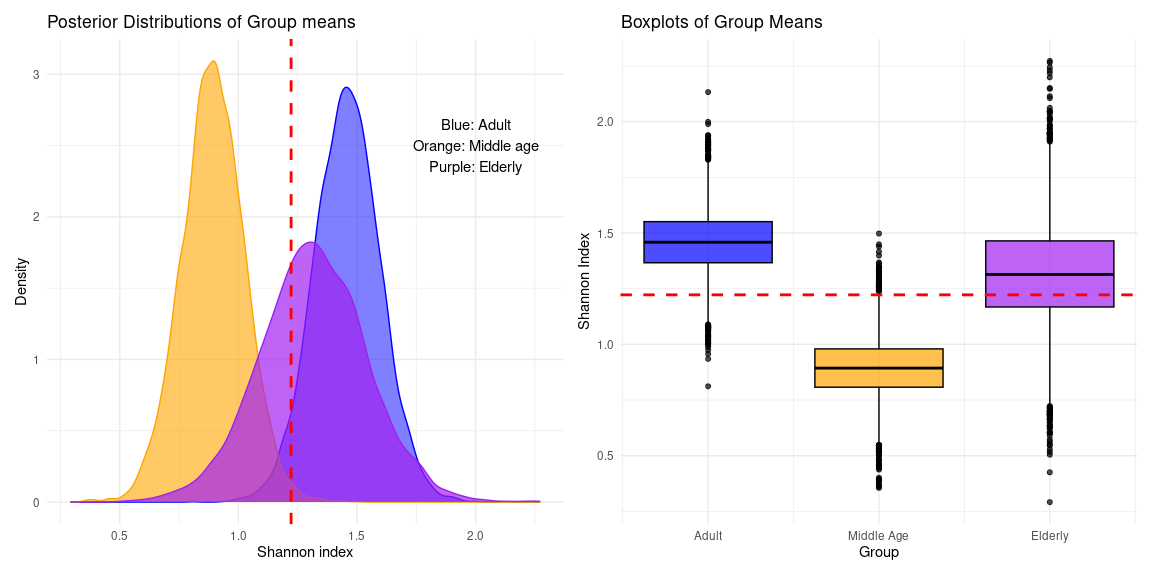
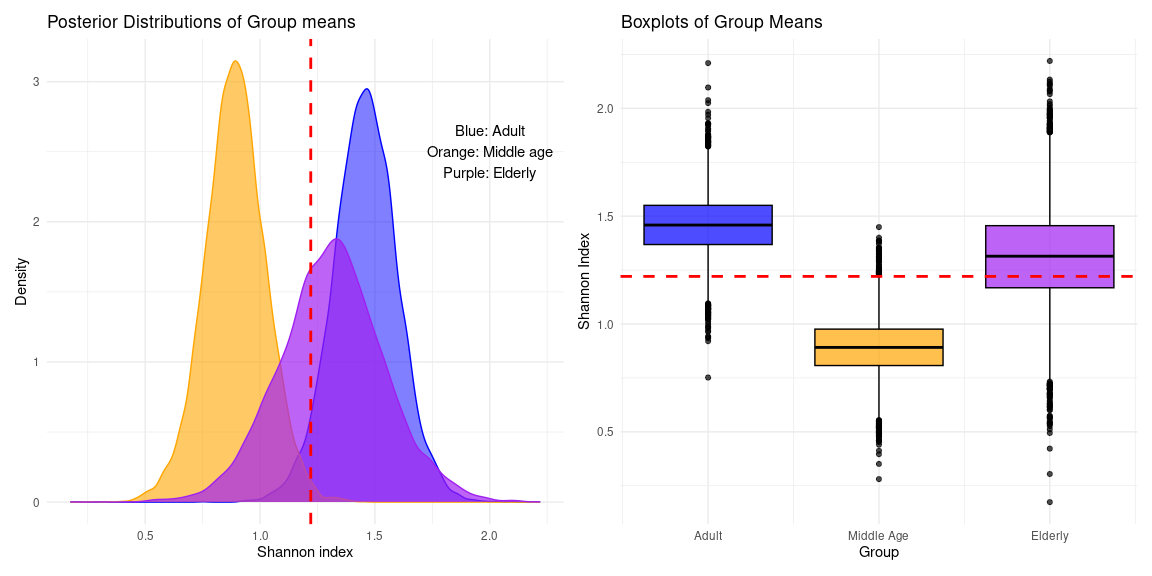
Reverse prob calculation and refactor effect size

diff --git a/multi_group_alt-bayes.md b/multi_group_alt-bayes.md
@@ -1,6 +1,6 @@
 # Probabilistic multi-group comparison of alpha diversity
 Rasmus Hindström
-2025-07-28
+2025-07-29
 
 - [0. Summary](#0-summary)
 - [1. Data preparation](#1-data-preparation)
@@ -107,16 +107,16 @@ runTime_brm <- end - start
 
     Regression Coefficients:
                         Estimate Est.Error l-95% CI u-95% CI Rhat Bulk_ESS Tail_ESS
-    Intercept               1.46      0.14     1.19     1.73 1.00     8577     5755
-    sigma_Intercept        -0.44      0.17    -0.76    -0.10 1.00     7054     5534
-    AgeElderly             -0.14      0.26    -0.67     0.38 1.00     7780     6190
-    AgeMiddle_age          -0.57      0.19    -0.95    -0.19 1.00     7929     6383
-    sigma_AgeElderly        0.33      0.25    -0.15     0.84 1.00     7629     6257
-    sigma_AgeMiddle_age    -0.26      0.26    -0.76     0.24 1.00     8198     5482
+    Intercept               1.46      0.14     1.17     1.74 1.00     8758     5774
+    sigma_Intercept        -0.44      0.17    -0.76    -0.10 1.00     8771     5767
+    AgeElderly             -0.15      0.26    -0.67     0.38 1.00     8875     5679
+    AgeMiddle_age          -0.57      0.20    -0.94    -0.18 1.00     9075     6520
+    sigma_AgeElderly        0.33      0.25    -0.15     0.83 1.00     9552     6781
+    sigma_AgeMiddle_age    -0.27      0.25    -0.75     0.23 1.00     9634     6736
 
     Further Distributional Parameters:
        Estimate Est.Error l-95% CI u-95% CI Rhat Bulk_ESS Tail_ESS
-    nu    24.24     14.34     5.87    59.77 1.00     8680     5134
+    nu    24.56     14.67     5.97    60.21 1.00    10307     6028
 
     Draws were sampled using sampling(NUTS). For each parameter, Bulk_ESS
     and Tail_ESS are effective sample size measures, and Rhat is the potential
@@ -201,7 +201,7 @@ frequentist p-value.
 <summary>Probabilities and Standardized Effect Size</summary>
 
 ``` r
-calc_eff_posterior <- function(mu_1, mu_2, sd_1, sd_2) {
+calc_cohenD_post <- function(mu_1, mu_2, sd_1, sd_2) {
     # Calculates effect size from posterior draws
     diff <- mu_1 - mu_2
     pooled_sd <- sqrt((sd_1^2 + sd_2^2) / 2)
@@ -215,36 +215,84 @@ calc_eff_posterior <- function(mu_1, mu_2, sd_1, sd_2) {
     return(res)
 }
 
+calc_logfc_post <- function(mu_1, mu_2) {
+    # Calculates log fold change from posterior draws
+    logfc <- log2(mu_1 / mu_2)
+    mean_logfc <- mean(logfc)
+    ci_logfc <- quantile(logfc, probs = c(0.05, 0.95))
+    res <- list(
+        "logfc" = mean_logfc,
+        "ci" = ci_logfc
+    )
+    return(res)
+}
+
+# Calculate effect sizes
+logfc_adult_elderly <- calc_logfc_post(plot_data$adult, plot_data$elderly)
+logfc_adult_middleage <- calc_logfc_post(plot_data$adult, plot_data$middle_age)
+logfc_elderly_middleage <- calc_logfc_post(plot_data$elderly, plot_data$middle_age)
+
+cohenD_adult_elderly <- calc_cohenD_post(
+    plot_data$adult, 
+    plot_data$elderly, 
+    plot_data$adult_sd, 
+    plot_data$elderly_sd
+)
+cohenD_adult_middleage <- calc_cohenD_post(
+    plot_data$adult, 
+    plot_data$middle_age, 
+    plot_data$adult_sd, 
+    plot_data$middle_age_sd
+)
+cohenD_elderly_middleage <- calc_cohenD_post(
+    plot_data$elderly, 
+    plot_data$middle_age, 
+    plot_data$elderly_sd, 
+    plot_data$middle_age_sd
+)
+
+
+
 probabilities <- data.frame(
     Comparison = c(
         "Adult vs Elderly",
         "Adult vs Middle age",
         "Elderly vs Middle age"
     ),
-    Prob_greater = c(
-        prob_adult_elderly <- mean(plot_data$adult > plot_data$elderly),
-        prob_adult_middleage <- mean(plot_data$adult > plot_data$middle_age),
-        prob_elderly_middleage <- mean(plot_data$elderly > plot_data$middle_age)
+    Prob_lesser = c(
+        prob_adult_elderly <- mean(plot_data$adult < plot_data$elderly),
+        prob_adult_middleage <- mean(plot_data$adult < plot_data$middle_age),
+        prob_elderly_middleage <- mean(plot_data$elderly < plot_data$middle_age)
     ),
-    High_P = c(
-        ifelse(prob_adult_elderly > 0.95, "*", ""),
-        ifelse(prob_adult_middleage > 0.95, "*", ""),
-        ifelse(prob_elderly_middleage > 0.95, "*", "")
+    LogFC = c(
+        logfc_adult_elderly$logfc,
+        logfc_adult_middleage$logfc,
+        logfc_elderly_middleage$logfc
+    ),
+    LogFC_ci_lower = c(
+        logfc_adult_elderly$ci[1],
+        logfc_adult_middleage$ci[1],
+        logfc_elderly_middleage$ci[1]
+    ),
+    LogFC_ci_upper = c(
+        logfc_adult_elderly$ci[2],
+        logfc_adult_middleage$ci[2],
+        logfc_elderly_middleage$ci[2]
     ),
     cohens_d = c(
-        calc_eff_posterior(plot_data$adult, plot_data$elderly, plot_data$adult_sd, plot_data$elderly_sd)$d,
-        calc_eff_posterior(plot_data$adult, plot_data$middle_age, plot_data$adult_sd, plot_data$middle_age_sd)$d,
-        calc_eff_posterior(plot_data$elderly, plot_data$middle_age, plot_data$elderly_sd, plot_data$middle_age_sd)$d
+        cohenD_adult_elderly$d,
+        cohenD_adult_middleage$d,
+        cohenD_elderly_middleage$d
     ),
-    ci_lower = c(
-        calc_eff_posterior(plot_data$adult, plot_data$elderly, plot_data$adult_sd, plot_data$elderly_sd)$ci[1],
-        calc_eff_posterior(plot_data$adult, plot_data$middle_age, plot_data$adult_sd, plot_data$middle_age_sd)$ci[1],
-        calc_eff_posterior(plot_data$elderly, plot_data$middle_age, plot_data$elderly_sd, plot_data$middle_age_sd)$ci[1]
+    d_ci_lower = c(
+        cohenD_adult_elderly$ci[1],
+        cohenD_adult_middleage$ci[1],
+        cohenD_elderly_middleage$ci[1]
     ),
-    ci_upper = c(
-        calc_eff_posterior(plot_data$adult, plot_data$elderly, plot_data$adult_sd, plot_data$elderly_sd)$ci[2],
-        calc_eff_posterior(plot_data$adult, plot_data$middle_age, plot_data$adult_sd, plot_data$middle_age_sd)$ci[2],
-        calc_eff_posterior(plot_data$elderly, plot_data$middle_age, plot_data$elderly_sd, plot_data$middle_age_sd)$ci[2]
+    d_ci_upper = c(
+        cohenD_adult_elderly$ci[2],
+        cohenD_adult_middleage$ci[2],
+        cohenD_elderly_middleage$ci[2]
     )
 )
 
@@ -253,11 +301,11 @@ knitr::kable(probabilities, caption = "Probabilities of Higher Shannon Index", f
 
 </details>
 
-| Comparison            | Prob_greater | High_P |  cohens_d |   ci_lower | ci_upper |
-|:----------------------|-------------:|:-------|----------:|-----------:|---------:|
-| Adult vs Elderly      |     0.710750 |        | 0.4852815 | -0.9502119 | 2.133642 |
-| Adult vs Middle age   |     0.997500 | \*     | 0.9909632 |  0.4073328 | 1.788763 |
-| Elderly vs Middle age |     0.944625 |        | 0.8840643 | -0.0258875 | 2.054133 |
+| Comparison | Prob_lesser | LogFC | LogFC_ci_lower | LogFC_ci_upper | cohens_d | d_ci_lower | d_ci_upper |
+|:---|---:|---:|---:|---:|---:|---:|---:|
+| Adult vs Elderly | 0.284625 | 0.1684920 | -0.2857972 | 0.6771266 | 0.4883523 | -0.9735084 | 2.085115 |
+| Adult vs Middle age | 0.003125 | 0.7184586 | 0.3073519 | 1.1616099 | 0.9874379 | 0.4053552 | 1.781978 |
+| Elderly vs Middle age | 0.057375 | 0.5499666 | -0.0246605 | 1.0959841 | 0.8741500 | -0.0350636 | 1.999226 |
 
 Probabilities of Higher Shannon Index
 
@@ -266,7 +314,24 @@ interpretation is more intuitive. The probabilities can also be computed
 over the highest density interval’s (HDI) or 95% CI’s. Here we have used
 the full posterior distributions.
 
-Effect size’s are standardized and 95% CI’s are reported.
+Effect size’s are reported as Log Fold Change (LogFC) and standardized
+effect size (Cohen’s d) with 95% CI’s.
+
+Combining the probabilities and effect sizes, we can conclude that the
+`Middle age` group has a lower Shannon index compared to the `Adult`
+group. With high probability (0.99) of observing a higher Shannon index
+in the `Adult` group and a higher then 95% chance of observing an
+positive effect size.
+
+The `Elderly` group has a similar pattern, with a high probabilty of
+observing a higher Shannon index than the `Middle age` group, but effect
+size 95% CI’s overlap zero. This indicates that the difference is not as
+pronounced as with the `Adult` group.
+
+Comparing the `Adult` and `Elderly` groups, the probability of observing
+a higher Shannon index in the `Adult` group is greater then 50%, but the
+effect size is small, with a 95% CI that overlaps zero. This indicates
+that the difference is not likely to be meaningful.
 
 # 3. Classical approachs to multi-group testing
 
@@ -277,11 +342,11 @@ are normality and equal variance.
 
 ``` r
 start <- proc.time() 
-res_annova <- aov(shannon ~ Age, data = df)
+res_anova <- aov(shannon ~ Age, data = df)
 end <- proc.time()
-runTime_annova <- end - start
+runTime_anova <- end - start
 
-summary(res_annova)
+summary(res_anova)
 ```
 
                 Df Sum Sq Mean Sq F value Pr(>F)  
@@ -407,14 +472,14 @@ between groups `Adult` and `Middle age`.
 runTimes <- data.frame(
     method = c(
         "Bayesian estimation",
-        "ANNOVA + t.test",
-        "ANNOVA + HSD",
+        "ANOVA + t.test",
+        "ANOVA + HSD",
         "Kruskal-Wallis + Dunn's"
         ),
     time_seconds = c(
         runTime_brm["elapsed"],
-        runTime_annova["elapsed"] + runTime_pwt["elapsed"],
-        runTime_annova["elapsed"] + runTime_hsd["elapsed"],
+        runTime_anova["elapsed"] + runTime_pwt["elapsed"],
+        runTime_anova["elapsed"] + runTime_hsd["elapsed"],
         runTime_kw["elapsed"] + runTime_dunn["elapsed"]
         )
 )
@@ -426,19 +491,20 @@ knitr::kable(runTimes, caption = "Run times for different methods", format = "pi
 
 | method                  | time_seconds |
 |:------------------------|-------------:|
-| Bayesian estimation     |       87.986 |
-| ANNOVA + t.test         |        0.004 |
-| ANNOVA + HSD            |        0.009 |
-| Kruskal-Wallis + Dunn’s |        0.009 |
+| Bayesian estimation     |       82.318 |
+| ANOVA + t.test          |        0.005 |
+| ANOVA + HSD             |        0.009 |
+| Kruskal-Wallis + Dunn’s |        0.006 |
 
 Run times for different methods
 
-Both the probabilistic and classical approachs to multigroup testing
-give the same result. The `Middle age` group is signaled out.
-Contrasting the methods, it is clear that the probabilistic approach
-gives richer inference, with the added benefit of intuitive
-interpretation.
+Although the methods are in aggreement that the significant outlier is
+the `Middle age` group. The classical methods are only able to provide a
+binary (yes/no) inference, in contrast to the much richer and intuitive
+information provided by the probabilistic method.
 
 The main drawback of the probabilistic approach is the computational
 cost. Fitting a Bayesian model, with brms, requires compiling the model
-and running the MCMC sampler.
+code and running the MCMC sampler. However this margin may shrink when
+datasets grow larger, as probabilistic model fitting scales well larger
+data.
